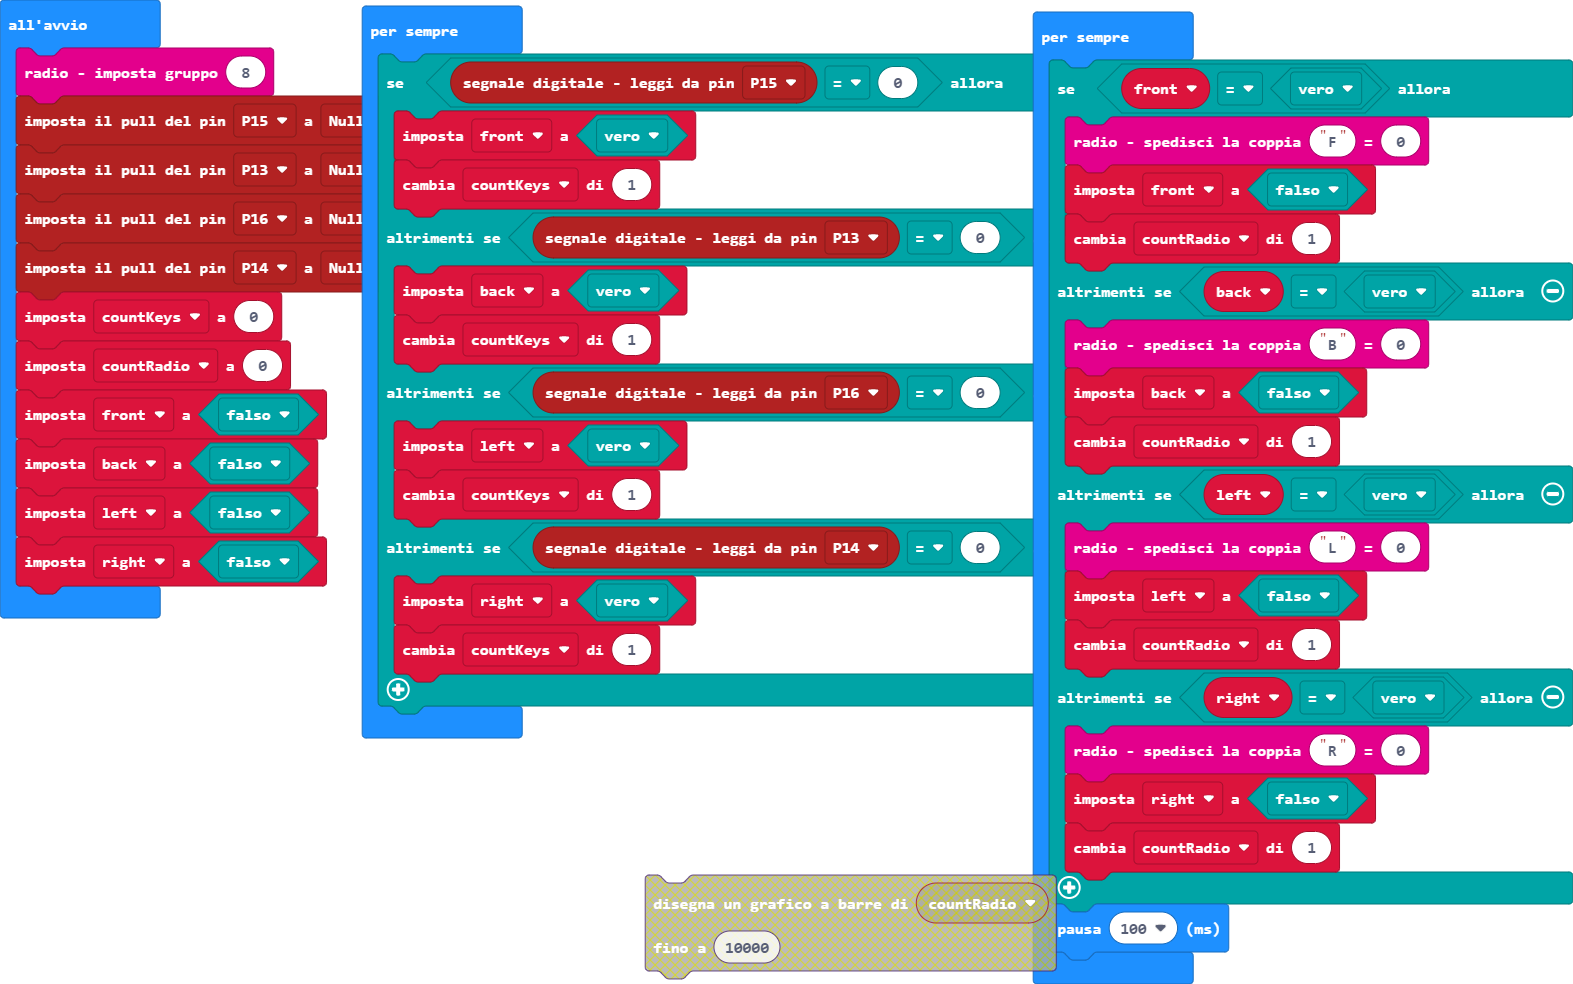
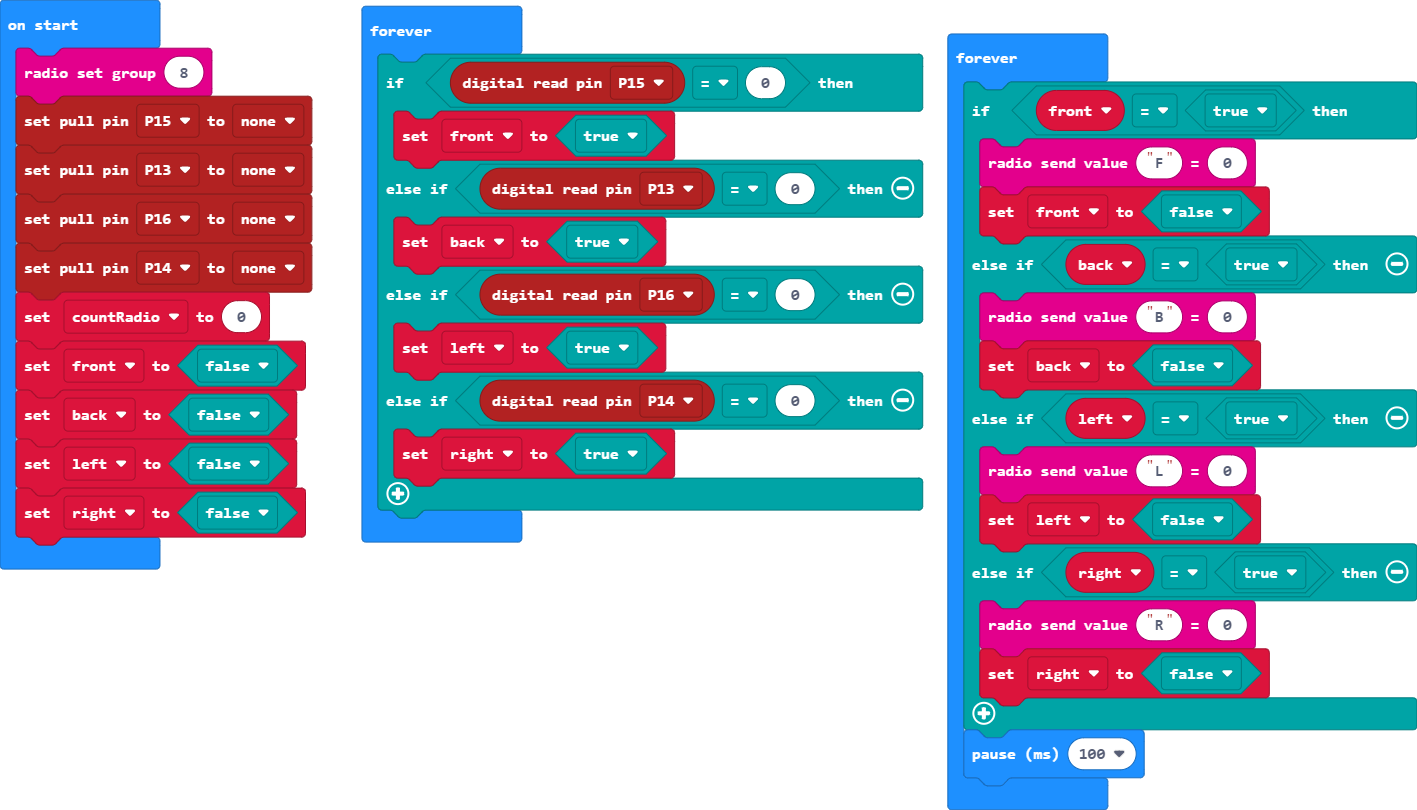
Update main.blocks, main.ts

diff --git a/main.ts b/main.ts
@@ -3,7 +3,6 @@ pins.setPull(DigitalPin.P15, PinPullMode.PullNone)
 pins.setPull(DigitalPin.P13, PinPullMode.PullNone)
 pins.setPull(DigitalPin.P16, PinPullMode.PullNone)
 pins.setPull(DigitalPin.P14, PinPullMode.PullNone)
-let countKeys = 0
 let countRadio = 0
 let front = false
 let back = false
@@ -12,35 +11,27 @@ let right = false
 basic.forever(function () {
     if (pins.digitalReadPin(DigitalPin.P15) == 0) {
         front = true
-        countKeys += 1
     } else if (pins.digitalReadPin(DigitalPin.P13) == 0) {
         back = true
-        countKeys += 1
     } else if (pins.digitalReadPin(DigitalPin.P16) == 0) {
         left = true
-        countKeys += 1
     } else if (pins.digitalReadPin(DigitalPin.P14) == 0) {
         right = true
-        countKeys += 1
     }
 })
 basic.forever(function () {
     if (front == true) {
         radio.sendValue("F", 0)
         front = false
-        countRadio += 1
     } else if (back == true) {
         radio.sendValue("B", 0)
         back = false
-        countRadio += 1
     } else if (left == true) {
         radio.sendValue("L", 0)
         left = false
-        countRadio += 1
     } else if (right == true) {
         radio.sendValue("R", 0)
         right = false
-        countRadio += 1
     }
     basic.pause(100)
 })
